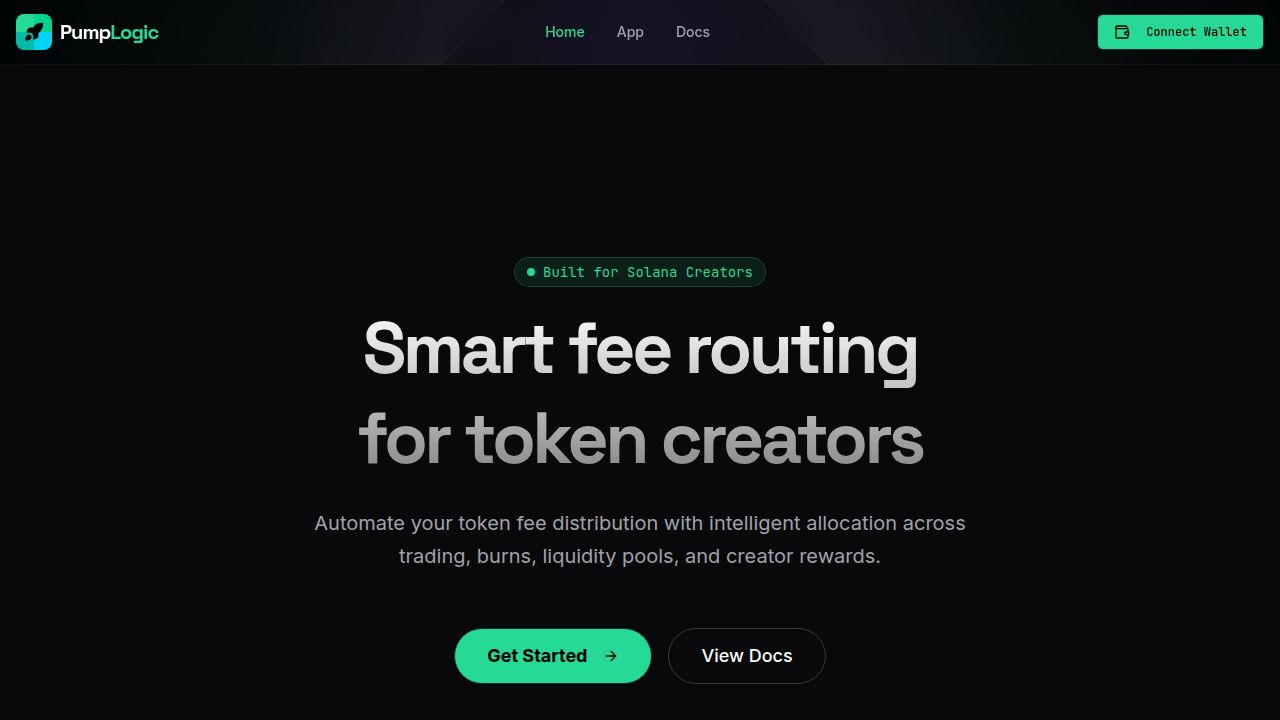
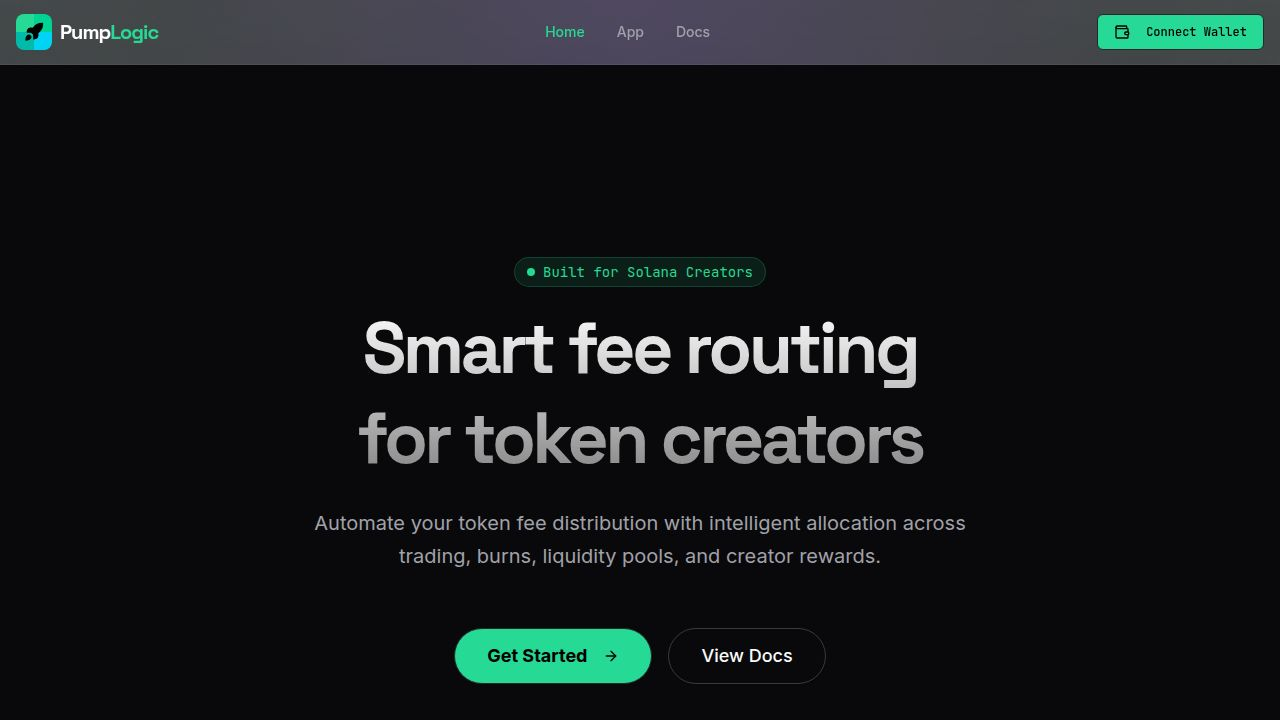
Update website background to improve visibility and contrast
Update client/src/index.css to replace the background image with a more visible one, adjust radial gradients, and set background-repeat to no-repeat.

Replit-Commit-Author: Agent
Replit-Commit-Session-Id: 2585299b-9637-488b-8496-783835317285
Replit-Commit-Checkpoint-Type: full_checkpoint
Replit-Commit-Event-Id: bc19a750-77b5-4c42-bd0c-80fdb3042ca9
Replit-Commit-Screenshot-Url: https://storage.googleapis.com/screenshot-production-us-central1/2bad6cc9-0753-4a81-a241-f469247d4355/2585299b-9637-488b-8496-783835317285/kNllmkY
Replit-Helium-Checkpoint-Created: true

Changed region(s): [[0.0, 0.0, 1.0, 0.0917]]

diff --git a/client/src/index.css b/client/src/index.css
@@ -94,14 +94,16 @@
     @apply border-border outline-ring/50;
   }
   body {
-    @apply bg-background text-foreground font-sans antialiased;
+    @apply text-foreground font-sans antialiased;
+    background-color: hsl(var(--background));
     background-image: 
-      radial-gradient(circle at 50% 0%, hsl(var(--secondary) / 0.15), transparent 40%),
-      radial-gradient(circle at 0% 100%, hsl(var(--primary) / 0.1), transparent 30%),
-      url('/dark_cyberpunk_website_background.png');
+      radial-gradient(circle at 50% 0%, hsl(var(--secondary) / 0.2), transparent 50%),
+      radial-gradient(circle at 0% 100%, hsl(var(--primary) / 0.15), transparent 40%),
+      url('/background.png');
     background-attachment: fixed;
     background-size: cover;
     background-position: center center;
+    background-repeat: no-repeat;
   }
   h1, h2, h3, h4, h5, h6 {
     @apply font-display tracking-tight;
